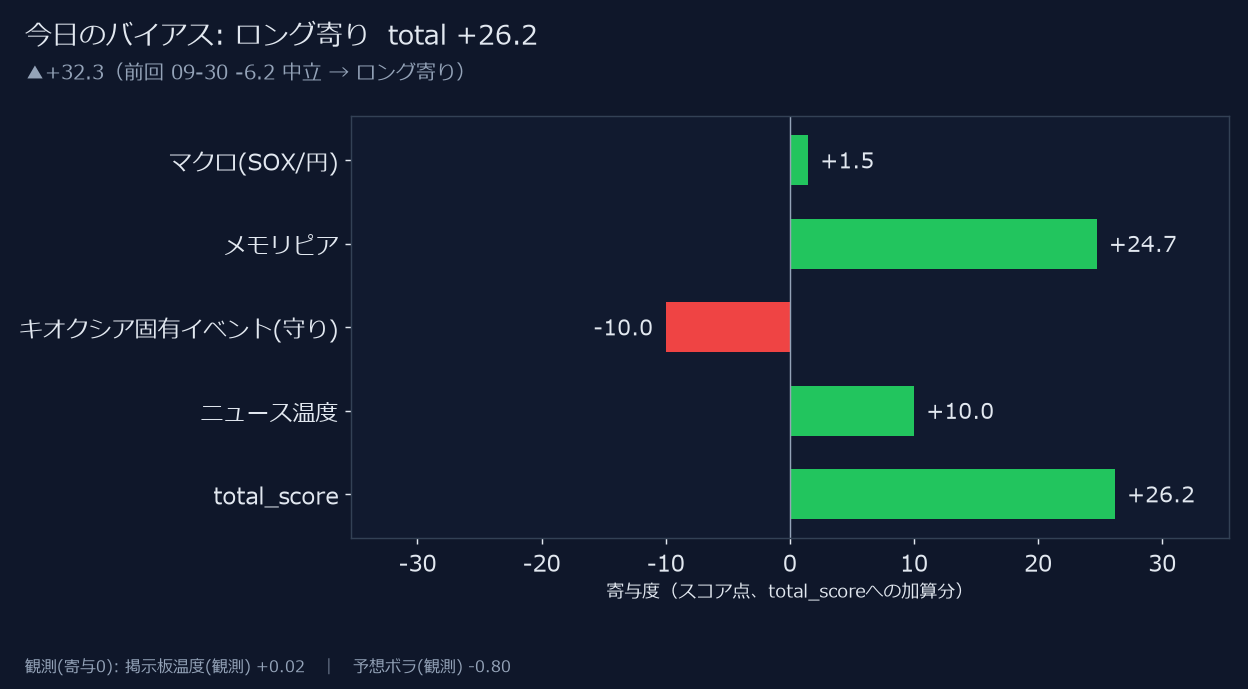
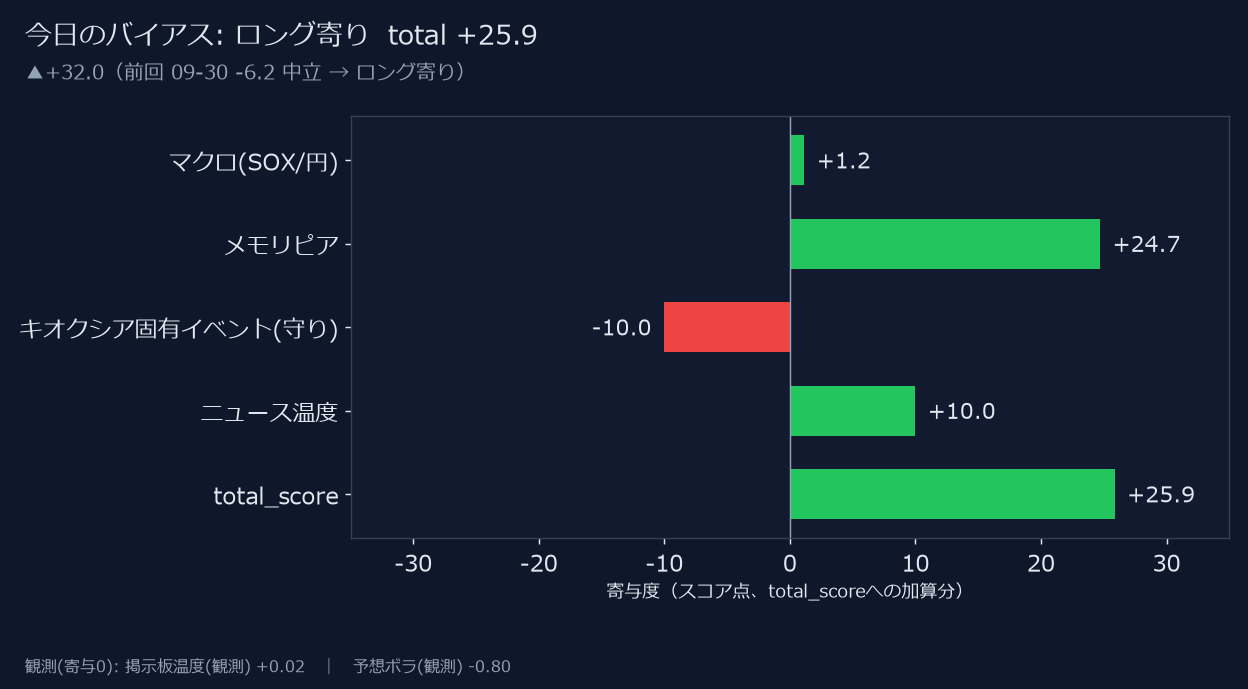
auto: refresh static site (2026-10-01 21:50:47 JST)

diff --git a/docs/index.html b/docs/index.html
@@ -69,10 +69,10 @@ a{color:var(--acc)}.disc{border-top:1px solid var(--border);margin-top:24px;padd
 <div class="channel-bar"><a href="https://www.youtube.com/@EthanHuntStock" target="_blank" rel="noopener noreferrer">▶ YouTube: @EthanHuntStock</a></div>
 <h1>🧠 AIセクター ワールドモニター | キオクシア(285A) 投資参考情報（投資は自己責任）</h1>
 <a class="cross-link" href="https://ethanhuntstock.github.io/Keijiban-bunseki/" target="_blank" rel="noopener noreferrer">🔗 おにや式投資法ダッシュボード（キオクシア285A掲示板センチメント分析）</a>
-<div class="muted">静的共有版｜生成 2026-10-01 21:49 JST｜価格: Yahoo Finance｜ニュース: RSS｜イベント: 手動正本｜60秒毎に自動更新（ブラウザが自動的に再読み込み）</div>
+<div class="muted">静的共有版｜生成 2026-10-01 21:50 JST｜価格: Yahoo Finance｜ニュース: RSS｜イベント: 手動正本｜60秒毎に自動更新（ブラウザが自動的に再読み込み）</div>
 <div class="label-note">※「バイアス」「買い目線/売り目線」「発火」「ボラ警戒」は<b>状態を記述するラベル</b>であり売買推奨ではありません。</div>
 <p id='visit-count-badge' class='muted'>👀 累計閲覧数: 97</p>
-<p id='like-button-wrap' class='muted'><button id='like-button' type='button' class='like-btn'>👍</button><span id='like-count-label'>このダッシュボードが役に立ったら押してください（累計 2 いいね）</span></p>
+<p id='like-button-wrap' class='muted' style='display:none'></p>
 
 <h2>🤖 AI考察<span class="help" tabindex="0"><span class="help-ico">?</span><span class="help-pop">モニターが観測している主要な指標（地合いスコア・寄り前ブリーフ・支持線抵抗線・テクニカル総合判定・セクター概況・ニュース・カレンダー等）を要約してローカルLLMに渡し、その関係性を解説させた考察文です。<br><br><b>無料公開データの観測情報の要約であり、投資助言・売買推奨ではありません。</b>断定的な将来予測はしないよう指示したうえで生成しています。内部の生成頻度は一定間隔（目安15分）のため、値動きへの反映にはタイムラグがあります。</span></span></h2>
 <div class="panel ai-insight-box">**※本レポートは、無料公開データを機械的に集計した観測情報であり、投資助言・売買推奨ではありません。**<br>
@@ -127,18 +127,18 @@ a{color:var(--acc)}.disc{border-top:1px solid var(--border);margin-top:24px;padd
 <h2>今日のバイアス（地合いスコア）<span class="help" tabindex="0"><span class="help-ico">?</span><span class="help-pop">複数の判断材料（マクロ・メモリ同業・キオクシア固有イベント・ニュース）を1つに合成した“今日の地合い（売買の傾き）”です。プラスほど買い目線、マイナスほど売り目線。<br><br><b>表の見方</b><br>subscore＝各軸の素点（-1〜+1）／weight＝その軸の重み（合計が1になるよう設計）／寄与＝subscore×weight×100。寄与がプラスの軸ほどバイアスを押し上げ、マイナスの軸ほど押し下げています。<br><br><b>各軸の意味</b><br>マクロ(SOX/円)＝米半導体指数と為替の逆風/追い風／メモリピア＝同業(SKハイニックス・サムスン・マイクロン・サンディスク)の値動き／キオクシア固有イベント(守り)＝決算・増資等の警戒度合い（マイナス方向のみに働く軸）／ニュース温度＝ニュース見出しの強気/弱気を自動採点。<br><br>total_score ＋10超＝ロング寄り／−10未満＝ショート寄り／その間＝中立。<b>機械的な目安で、最終判断は人・1日で断定しない。</b></span></span></h2>
 <div class="panel">
   <span class="bias long">ロング寄り</span>
-  <span class="score">total +26.2</span>
-  <span class="delta">▲+32.3（前回 09-30 -6.2 中立 → ロング寄り）</span>
-  <div class="muted">時点 10-01 21:49｜status ok
+  <span class="score">total +25.9</span>
+  <span class="delta">▲+32.0（前回 09-30 -6.2 中立 → ロング寄り）</span>
+  <div class="muted">時点 10-01 21:50｜status ok
   </div>
   <img src="images/regime.png" alt="地合いスコア内訳">
-  <table><thead><tr><th>軸</th><th class=num>subscore</th><th class=num>weight</th><th class=num>寄与</th></tr></thead><tbody><tr><td>マクロ(SOX/円)</td><td class=num>0.0418</td><td class=num>0.35</td><td class='num pos'>+1.46</td></tr><tr><td>メモリピア</td><td class=num>0.8239</td><td class=num>0.3</td><td class='num pos'>+24.72</td></tr><tr><td>キオクシア固有イベント(守り)</td><td class=num>-0.5</td><td class=num>0.2</td><td class='num neg'>-10.00</td></tr><tr><td>ニュース温度</td><td class=num>0.6667</td><td class=num>0.15</td><td class='num pos'>+10.00</td></tr><tr><td>掲示板温度(観測)</td><td class=num>0.0247</td><td class=num>0.0</td><td class='num '>+0.00</td></tr><tr><td>予想ボラ(観測)</td><td class=num>-0.7973</td><td class=num>0.0</td><td class='num '>+0.00</td></tr></tbody></table>
+  <table><thead><tr><th>軸</th><th class=num>subscore</th><th class=num>weight</th><th class=num>寄与</th></tr></thead><tbody><tr><td>マクロ(SOX/円)</td><td class=num>0.0332</td><td class=num>0.35</td><td class='num pos'>+1.16</td></tr><tr><td>メモリピア</td><td class=num>0.8239</td><td class=num>0.3</td><td class='num pos'>+24.72</td></tr><tr><td>キオクシア固有イベント(守り)</td><td class=num>-0.5</td><td class=num>0.2</td><td class='num neg'>-10.00</td></tr><tr><td>ニュース温度</td><td class=num>0.6667</td><td class=num>0.15</td><td class='num pos'>+10.00</td></tr><tr><td>掲示板温度(観測)</td><td class=num>0.0247</td><td class=num>0.0</td><td class='num '>+0.00</td></tr><tr><td>予想ボラ(観測)</td><td class=num>-0.7973</td><td class=num>0.0</td><td class='num '>+0.00</td></tr></tbody></table>
   <div class="muted">total_score ＋10超＝ロング寄り／−10未満＝ショート寄り／その間＝中立。内訳を見て最終判断は人・1日で断定しない。</div>
   <div class="plain">おにや式投資法の掲示板センチメント(強気/弱気の投稿の傾き)を観測用の第5軸として表示しています。今は重みゼロの観測専用で、地合いスコアには含まれません。</div><div class="muted">掲示板温度 +0.02（観測・寄与0）｜灼熱 18｜発火 0/9｜10-01 20:38　｜直近6h推移: 強気比<span class="">—</span>（横ばい）</div>
 </div>
 
 <h2>寄り前ブリーフ<span class="help" tabindex="0"><span class="help-ico">?</span><span class="help-pop">前夜の米国市場（SOX指数・マイクロン等）と為替・金利から、今朝のキオクシア(285A)の寄り付き方向（上ギャップ＝高く始まる/下ギャップ＝安く始まる）を推定します。“攻め”は順張りしやすい地合い、“守り”は慎重・無理しない地合い。<br><br><b>表の項目</b><br>各行＝前夜の米国市場や為替の変化率(値%)に重み(weight)を掛けて寄与に変換したもの。SOX指数（フィラデルフィア半導体指数）＝米半導体株の代表指数／マイクロン(MU)・サンディスク(SNDK)＝キオクシアと同じNAND/DRAM同業の米国株／エヌビディア(NVDA)＝AI需要の代表株／ドル円(USD/JPY)＝前夜からの為替変化（円安＝寄与＋）／米10年金利(^TNX)＝米国債10年利回り（配信値を1/10に正規化。上昇はグロース株に逆風）。</span></span></h2>
-<div class="panel"><div class="plain">前夜の米国市場と為替・金利から、今朝のキオクシア(285A)の寄り付き方向を推定した記述です。— フラット＝高く/安く始まる見立て、「中立」＝攻め(順張りしやすい)/守り(慎重)/中立のいずれか。</div><div class="muted"><b>— フラット</b>　中立　日経ギャップ概算 +2.86%（NIY=F）</div><table><thead><tr><th>項目</th><th class=num>値%</th><th class=num>weight</th><th class=num>寄与</th><th>時点/注記</th></tr></thead><tbody><tr><td>SOX指数（フィラデルフィア半導体）</td><td class='num neg'>-0.63%</td><td class=num>0.3</td><td class='num neg'>-0.188</td><td class=muted>現値%（前夜引け進行） · 10-01 21:49</td></tr><tr><td>マイクロン（MU）</td><td class='num pos'>+0.00%</td><td class=num>0.15</td><td class='num pos'>+0.000</td><td class=muted>前夜引け · 10-01 21:49</td></tr><tr><td>エヌビディア（NVDA）</td><td class='num pos'>+0.51%</td><td class=num>0.15</td><td class='num pos'>+0.077</td><td class=muted>前夜引け · 10-01 21:49</td></tr><tr><td>サンディスク（SNDK）</td><td class='num pos'>+0.59%</td><td class=num>0.15</td><td class='num pos'>+0.088</td><td class=muted>前夜引け · 10-01 21:49</td></tr><tr><td>ドル円（USD/JPY）</td><td class='num pos'>+0.40%</td><td class=num>0.15</td><td class='num pos'>+0.060</td><td class=muted>夜間変化%（円安=+寄与） · 10-01 21:49</td></tr><tr><td>米10年金利（^TNX）</td><td class='num neg'>-0.19%</td><td class=num>-0.1</td><td class='num pos'>+0.019</td><td class=muted>10年金利(1/10正規化)前日比%・上昇=逆風 · 10-01 21:49</td></tr></tbody></table></div>
+<div class="panel"><div class="plain">前夜の米国市場と為替・金利から、今朝のキオクシア(285A)の寄り付き方向を推定した記述です。— フラット＝高く/安く始まる見立て、「中立」＝攻め(順張りしやすい)/守り(慎重)/中立のいずれか。</div><div class="muted"><b>— フラット</b>　中立　日経ギャップ概算 +2.90%（NIY=F）</div><table><thead><tr><th>項目</th><th class=num>値%</th><th class=num>weight</th><th class=num>寄与</th><th>時点/注記</th></tr></thead><tbody><tr><td>SOX指数（フィラデルフィア半導体）</td><td class='num neg'>-0.63%</td><td class=num>0.3</td><td class='num neg'>-0.188</td><td class=muted>現値%（前夜引け進行） · 10-01 21:50</td></tr><tr><td>マイクロン（MU）</td><td class='num pos'>+0.00%</td><td class=num>0.15</td><td class='num pos'>+0.000</td><td class=muted>前夜引け · 10-01 21:50</td></tr><tr><td>エヌビディア（NVDA）</td><td class='num pos'>+0.51%</td><td class=num>0.15</td><td class='num pos'>+0.077</td><td class=muted>前夜引け · 10-01 21:50</td></tr><tr><td>サンディスク（SNDK）</td><td class='num pos'>+0.59%</td><td class=num>0.15</td><td class='num pos'>+0.088</td><td class=muted>前夜引け · 10-01 21:50</td></tr><tr><td>ドル円（USD/JPY）</td><td class='num pos'>+0.38%</td><td class=num>0.15</td><td class='num pos'>+0.057</td><td class=muted>夜間変化%（円安=+寄与） · 10-01 21:50</td></tr><tr><td>米10年金利（^TNX）</td><td class='num neg'>-0.23%</td><td class=num>-0.1</td><td class='num pos'>+0.023</td><td class=muted>10年金利(1/10正規化)前日比%・上昇=逆風 · 10-01 21:50</td></tr></tbody></table></div>
 
 <h2>本日のギャップとチャート型の傾向（285A・観測）<span class="help" tabindex="0"><span class="help-ico">?</span><span class="help-pop">前営業日終値から本日の始値（寄り値）がどれだけ離れたか（ギャップ%）と、過去49営業日の観測で見えた「型」との関係です。ギャップダウンの日はそのまま一方向へ動く「トレンド型」になりやすく、ギャップアップの日は途中で戻る「往復型」になりやすいという傾向が観測されていますが、これは過去データでの観測にとどまり、前向きの検証はまだ済んでいません。<b>予測ではなく、売買シグナルでもありません。</b></span></span></h2>
 <div class="panel"><div class="muted">本日のギャップ＝<b>+2.21%</b>（ギャップアップ）</div><div class="plain">過去49日では、ギャップアップの日は往復型（寄りで高安が決まらず戻す・往復する）になりやすい傾向がありました。</div><div class="muted">傾向であり予測ではありません（既視データでの観測にとどまり、前向き検証は未了です）。</div></div>
@@ -211,7 +211,7 @@ a{color:var(--acc)}.disc{border-top:1px solid var(--border);margin-top:24px;padd
 <h3>過去イベント類型(参考・件数集計)</h3><div class=muted>その他 17件／株主総会 1件／決算 11件／金融政策 10件</div><div class="muted">2027-02-12　[決算]　キオクシア 第3四半期決算（10-12月）</div><div class="muted">2026-12-18　[金融政策]　日銀金融政策決定会合（12月）</div><div class="muted">2026-12-11　[その他]　米CPI（11月分）</div></div>
 
 <h2>マクロ（USDJPY / 金利 / FOMC）<span class="help" tabindex="0"><span class="help-ico">?</span><span class="help-pop">円相場・米金利・次回FOMCまでの日数です。円高はキオクシア(輸出採算)に逆風、米金利上昇はグロース半導体のバリュエーションに逆風という見方の目安です。</span></span></h2>
-<div class="panel"><div class="plain">円相場・米金利・次回FOMCまでの日数です。円高はキオクシア(輸出採算)に逆風、米金利上昇はグロース半導体のバリュエーションに逆風という見方の目安です。</div><table><tbody><tr><td>ドル円(USD/JPY)</td><td class="num pos">158.01円 （+0.39%）</td></tr><tr><td>米10年金利(^TNX)</td><td class="num pos">5.28% （-1.0bp）</td></tr><tr><td>米2年金利(DGS2)</td><td class="num ">— （FRED DGS2(鍵未設定・欠損)）</td></tr><tr><td>次回FOMCまで</td><td class=num>27日（2026-10-28）</td></tr></tbody></table><div class="muted">円高=285A逆風 / 金利上昇=グロース半導体に逆風</div></div>
+<div class="panel"><div class="plain">円相場・米金利・次回FOMCまでの日数です。円高はキオクシア(輸出採算)に逆風、米金利上昇はグロース半導体のバリュエーションに逆風という見方の目安です。</div><table><tbody><tr><td>ドル円(USD/JPY)</td><td class="num pos">158.01円 （+0.38%）</td></tr><tr><td>米10年金利(^TNX)</td><td class="num pos">5.28% （-1.2bp）</td></tr><tr><td>米2年金利(DGS2)</td><td class="num ">— （FRED DGS2(鍵未設定・欠損)）</td></tr><tr><td>次回FOMCまで</td><td class=num>27日（2026-10-28）</td></tr></tbody></table><div class="muted">円高=285A逆風 / 金利上昇=グロース半導体に逆風</div></div>
 
 </div>
 <div class="tabpane" data-tab-panel="matref">
@@ -236,7 +236,7 @@ a{color:var(--acc)}.disc{border-top:1px solid var(--border);margin-top:24px;padd
 <div class="panel"><div class="plain">285A(キオクシア)以外の半導体製造装置(SPE)関連銘柄の信用残高です。出典・見方は上の285Aパネルと同じ(JPX日次公表・買残÷売残＝信用倍率)。</div><table><thead><tr><th>銘柄</th><th>基準日</th><th class=num>信用買残</th><th class=num>信用売残</th><th class=num>倍率</th></tr></thead><tbody><tr><td>キオクシア（285A）</td><td>2026-09-28</td><td class=num>14,820,000</td><td class=num>750,000</td><td class='num amber'>19.76倍</td></tr><tr><td>ディスコ（6146）</td><td>2026-09-28</td><td class=num>901,200</td><td class=num>87,000</td><td class='num pos'>10.36倍</td></tr><tr><td>KOKUSAI ELECTRIC（6525）</td><td>2026-09-28</td><td class=num>2,091,300</td><td class=num>431,300</td><td class='num pos'>4.85倍</td></tr><tr><td>アドバンテスト（6857）</td><td>2026-09-28</td><td class=num>2,378,200</td><td class=num>1,734,800</td><td class='num pos'>1.37倍</td></tr><tr><td>レーザーテック（6920）</td><td>2026-09-28</td><td class=num>1,450,500</td><td class=num>375,800</td><td class='num pos'>3.86倍</td></tr><tr><td>SCREEN（7735）</td><td>2026-09-28</td><td class=num>911,800</td><td class=num>158,400</td><td class='num pos'>5.76倍</td></tr><tr><td>東京エレクトロン（8035）</td><td>2026-09-28</td><td class=num>2,162,900</td><td class=num>151,700</td><td class='num pos'>14.26倍</td></tr></tbody></table><div class="muted">信用取引残高の推移を示す観測データであり、売買シグナルではありません。285A(キオクシア)以外はSPE系(東京エレクトロン/レーザーテック/アドバンテスト/ディスコ/SCREEN/KOKUSAI ELECTRIC)が対象です。</div></div>
 
 <h2>夜間PTS・米国ADR円換算（285A・SPE銘柄）<span class="help" tabindex="0"><span class="help-ico">?</span><span class="help-pop">大引け後のPTS(私設取引システム)と米国ADR(円換算)の直近値です。取引時間外の観測データで、翌営業日の寄り付きを保証するものではありません（nikkei225jp.com公表データ）。</span></span></h2>
-<div class="panel"><div class="plain">大引け後のPTS(私設取引システム・夜間取引)と米国ADR(円換算)の直近値です。変化率はその銘柄のTSE大引け値との比較(取引が無い時間帯は"—")。翌営業日の寄り付きを保証するものではなく、参考の観測情報です。</div><table><thead><tr><th>銘柄</th><th class=num>TSE大引け</th><th class=num>PTS</th><th class=num>米国ADR</th></tr></thead><tbody><tr><td>キオクシア（285A）</td><td class=num>19,100.0円（10/01 15:30）</td><td class=num>18,845.0円（-1.34%・10/01 21:39）</td><td class=num>—</td></tr><tr><td>ディスコ（6146）</td><td class=num>60,440.0円（10/01 15:30）</td><td class=num>59,800.0円（-1.06%・10/01 19:46）</td><td class=num>—</td></tr><tr><td>アドバンテスト（6857）</td><td class=num>37,610.0円（10/01 15:30）</td><td class=num>36,860.0円（-1.99%・10/01 21:47）</td><td class=num>—</td></tr><tr><td>レーザーテック（6920）</td><td class=num>45,710.0円（10/01 15:30）</td><td class=num>45,000.0円（-1.55%・10/01 21:48）</td><td class=num>—</td></tr><tr><td>東京エレクトロン（8035）</td><td class=num>12,580.0円（10/01 15:30）</td><td class=num>12,380.0円（-1.59%・10/01 21:45）</td><td class=num>—</td></tr></tbody></table><div class="muted">出典: nikkei225jp.com（無料公開フィード・観測データ）</div></div>
+<div class="panel"><div class="plain">大引け後のPTS(私設取引システム・夜間取引)と米国ADR(円換算)の直近値です。変化率はその銘柄のTSE大引け値との比較(取引が無い時間帯は"—")。翌営業日の寄り付きを保証するものではなく、参考の観測情報です。</div><table><thead><tr><th>銘柄</th><th class=num>TSE大引け</th><th class=num>PTS</th><th class=num>米国ADR</th></tr></thead><tbody><tr><td>キオクシア（285A）</td><td class=num>19,100.0円（10/01 15:30）</td><td class=num>18,839.0円（-1.37%・10/01 21:47）</td><td class=num>—</td></tr><tr><td>ディスコ（6146）</td><td class=num>60,440.0円（10/01 15:30）</td><td class=num>59,800.0円（-1.06%・10/01 19:46）</td><td class=num>—</td></tr><tr><td>アドバンテスト（6857）</td><td class=num>37,610.0円（10/01 15:30）</td><td class=num>36,860.0円（-1.99%・10/01 21:47）</td><td class=num>—</td></tr><tr><td>レーザーテック（6920）</td><td class=num>45,710.0円（10/01 15:30）</td><td class=num>45,000.0円（-1.55%・10/01 21:48）</td><td class=num>—</td></tr><tr><td>東京エレクトロン（8035）</td><td class=num>12,580.0円（10/01 15:30）</td><td class=num>12,380.0円（-1.59%・10/01 21:45）</td><td class=num>—</td></tr></tbody></table><div class="muted">出典: nikkei225jp.com（無料公開フィード・観測データ）</div></div>
 
 <h2>半導体拠点マップ（一覧）<span class="help" tabindex="0"><span class="help-ico">?</span><span class="help-pop">メモリ/ファウンドリ/装置/データセンターの世界の主要拠点と、台湾海峡など輸送・地政学リスク地点の一覧です（インタラクティブな地図はライブ版でのみ表示）。地政学ニュースが出た時に「どこの話か・サプライチェーンへの影響」を把握する手がかりになります。</span></span></h2>
 <div class="panel"><div class="plain">メモリ/ファウンドリ/装置/データセンターの世界の主要拠点と、台湾海峡など輸送・地政学リスク地点の一覧です（地図はライブ版でのみ表示）。地政学ニュースが出た時に「どこの話か・サプライチェーンへの影響」を把握する手がかりになります。</div><table><tbody><tr><td class=muted>メモリ</td><td>キオクシア 四日市工場</td><td class=muted>キオクシア(285A)/サンディスク主力NAND拠点。世界最大級のNAND生産。BiCS FLASH量産の中核</td></tr><tr><td class=muted>メモリ</td><td>キオクシア 北上工場</td><td class=muted>キオクシアの新世代NAND(BiCS第8世代)増強拠点。岩手県北上市</td></tr><tr><td class=muted>メモリ</td><td>SKハイニックス 利川</td><td class=muted>SKハイニックスの主力DRAM/HBM拠点。AI向けHBMで世界首位級</td></tr><tr><td class=muted>メモリ</td><td>サムスン 華城(ファソン)</td><td class=muted>サムスン電子のメモリ/ファウンドリ拠点。DRAM・NAND・ロジック</td></tr><tr><td class=muted>メモリ</td><td>サムスン 平沢(ピョンテク)</td><td class=muted>サムスン最大級メモリ拠点。先端DRAM/NAND/HBM増強</td></tr><tr><td class=muted>メモリ</td><td>マイクロン 広島工場</td><td class=muted>マイクロンの先端DRAM拠点(日本)。EUV導入のDRAM量産</td></tr><tr><td class=muted>メモリ</td><td>マイクロン 本社/ボイシ</td><td class=muted>マイクロン(MU)本社・米国DRAM拠点。NAND/DRAMピア</td></tr><tr><td class=muted>ファウンドリ</td><td>TSMC 新竹</td><td class=muted>TSMC本拠・先端ロジックの中核。AIチップ(NVIDIA/AMD)を受託製造</td></tr><tr><td class=muted>ファウンドリ</td><td>TSMC 熊本(JASM)</td><td class=muted>TSMCの日本ファウンドリ(JASM)。ソニー/デンソー連携。第2工場計画</td></tr><tr><td class=muted>ファウンドリ</td><td>TSMC アリゾナ</td><td class=muted>TSMC米国拠点。先端ノードの域内供給</td></tr><tr><td class=muted>ファウンドリ</td><td>インテル ファウンドリ</td><td class=muted>インテルのファウンドリ事業。先端ロジック内製/受託</td></tr><tr><td class=muted>equipment</td><td>ASML フェルトホーフェン</td><td class=muted>EUV露光装置の独占供給(オランダ)。先端半導体製造の死活的ボトルネック</td></tr><tr><td class=muted>equipment</td><td>東京エレクトロン(8035)</td><td class=muted>成膜/エッチング等の製造装置大手(日本)。SPEヒートマップの中核銘柄</td></tr><tr><td class=muted>equipment</td><td>アプライド・マテリアルズ</td><td class=muted>米製造装置最大手。WFE市況のバロメーター</td></tr><tr><td class=muted>equipment</td><td>レーザーテック(6920)</td><td class=muted>EUVマスク検査で独占的(日本)。SPE銘柄</td></tr><tr><td class=muted>equipment</td><td>アドバンテスト(6857)</td><td class=muted>半導体テスタ大手(日本)。AI/HBMテスト需要で注目。SPE銘柄</td></tr><tr><td class=muted>データセンター</td><td>NVIDIA 本社</td><td class=muted>AI GPU設計の中核(米サンタクララ)。AIチップ需要の震源</td></tr><tr><td class=muted>チョークポイント</td><td>台湾海峡</td><td class=muted>先端半導体供給の地政学的要衝。封鎖/緊張は全AI半導体に波及するチョークポイント</td></tr><tr><td class=muted>チョークポイント</td><td>マラッカ海峡</td><td class=muted>東アジア半導体サプライチェーンの海上物流要衝</td></tr><tr><td class=muted>geopolitics</td><td>米中 半導体規制(対中輸出規制)</td><td class=muted>対中先端半導体/装置の輸出規制。需給・各社売上の地政学リスク軸</td></tr></tbody></table></div>
